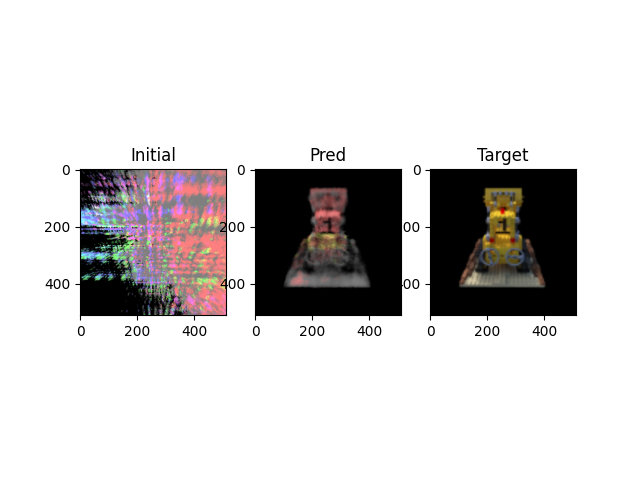
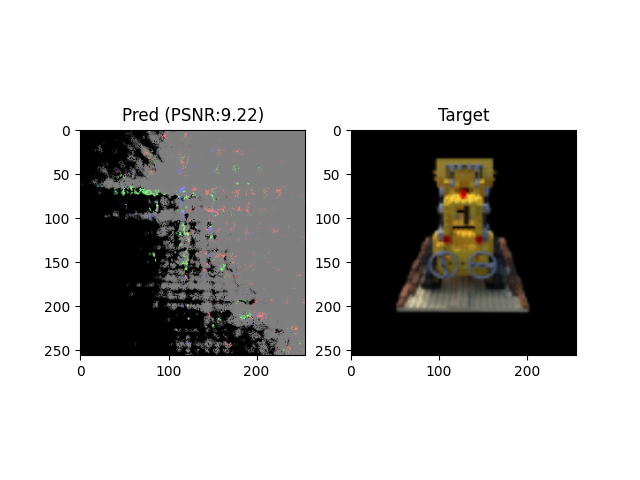
minor change

Changed region(s): [[0.0625, 0.2188, 0.9062, 0.7812]]

diff --git a/run_nerf.py b/run_nerf.py
@@ -18,8 +18,8 @@ log2_hashmap_size = 4
 features_per_level = 3
 
 #output image
-width = 512
-height = 512
+width = 256
+height = 256
 N_samples = 32
 
 os.environ["KMP_DUPLICATE_LIB_OK"] = "TRUE"
@@ -35,17 +35,18 @@ b2 = torch.zeros(C, dtype=torch.float, requires_grad=True, device='cuda:0')
 b3 = torch.zeros(C, dtype=torch.float, requires_grad=True, device='cuda:0')
 
 dataset = Dataset()
-optimizer = torch.optim.Adam([w1, w2, w3, b1, b2, b3], lr=1e-2)
+optimizer = torch.optim.Adam([w1, w2, w3, b1, b2, b3], lr=5e-3) 
 loss_fn = torch.nn.MSELoss()
 
 intermediate_images = []
-iterations = 2000
+target_images = []
+iterations = 2500
 
 import time
 start = time.time()
 
 for i in range(iterations):
-    img_i = 0 #img_i = np.random.randint(100)
+    img_i = 0  #img_i = np.random.randint(100)
     x, z_vals, target_image, viewdirs = dataset.get_data(img_i)
     encoded_x = x                #encoded_x = embed_fn(x)
     encoded_viewdirs = viewdirs  #encoded_viewdirs = embed_fn(viewdirs)
@@ -65,22 +66,33 @@ for i in range(iterations):
     loss.backward()
     optimizer.step()
 
-    if i % 20 == 0:
+    if i  > (iterations - 5):
         intermediate_images.append(y_pred.detach().cpu().numpy())
+        target_images.append(target_image.detach().cpu().numpy())
 
 end = time.time()
 
-# Display images side-by-side
-import matplotlib.pyplot as plt
-fig, (ax1, ax2, ax3) = plt.subplots(1, 3)
-ax1.imshow(intermediate_images[0])
+
+#Multiple images
+# fig, axs = plt.subplots(2, 4, figsize=(10, 6))
+# for ax, img in zip(axs[0], target_images):
+#     ax.imshow(img)
+#     ax.set_title('Target')
+#     ax.axis('off')
+# for ax, img in zip(axs[1], intermediate_images):
+#     ax.imshow(img)
+#     ax.set_title('Pred')
+#     ax.axis('off')
+# plt.tight_layout() 
+# plt.show() 
+# plt.savefig('output_multiple.png')
+
+
+# #Interatively train a single image
+fig, (ax2, ax3) = plt.subplots(1, 2)
 ax2.imshow(y_pred.detach().cpu().numpy())
 ax3.imshow(target_image.detach().cpu().numpy())
-
-# Label images
-ax1.set_title('Initial')
-ax2.set_title('Pred')
+ax2.set_title(f"Pred (PSNR:{psnr.item():.2f})")
 ax3.set_title('Target')
-
 plt.show()
-plt.savefig('output.png')
+plt.savefig('output_single.png')

diff --git a/run_nerf_hashen.py b/run_nerf_hashen.py
@@ -17,8 +17,8 @@ log2_hashmap_size = 4
 features_per_level = 2
 
 #output image
-width = 512
-height = 512
+width = 256
+height = 256
 N_samples = 32
 
 os.environ["KMP_DUPLICATE_LIB_OK"] = "TRUE"
@@ -53,7 +53,7 @@ optimizer = torch.optim.Adam([w1, w2, w3, b1, b2, b3, feature_grid], lr=3e-2)
 loss_fn = torch.nn.MSELoss()
 
 intermediate_images = []
-iterations = 2000
+iterations = 1000
 
 import time
 start = time.time()

diff --git a/sampling.py b/sampling.py
@@ -9,7 +9,7 @@ class Dataset():
         self.poses = self.data['poses']
         self.focal = self.data['focal']
         self.device = "cuda"
-        self.H, self.W = 512, 512 #64, 64 
+        self.H, self.W = 256, 256 #64, 64 
 
         self.testimg,  self.testpose = self.images[101], self.poses[101]
         self.images = self.images[:100,...,:3]
